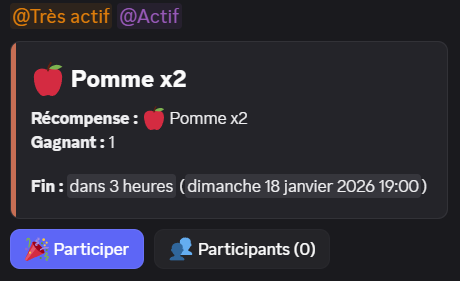
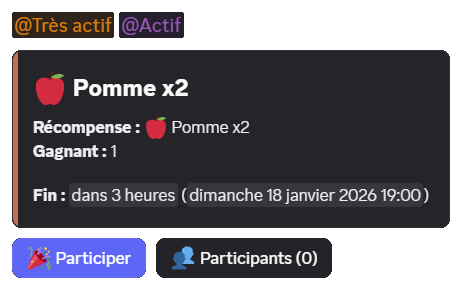
🔄 Replace image: giveaway_with_mentions.png

diff --git a/docs/2.modules/27.giveaways.md b/docs/2.modules/27.giveaways.md
@@ -235,7 +235,7 @@ Vous pouvez ajouter une vignette ainsi qu'une image principale à votre giveaway
 
 Vous pouvez définir des rôles à notifier lors de la publication du giveaway.
 
-<image giveaway avec mentions>
+![Giveaway avec deux rôles mentionnés](../assets/giveaways/giveaway_with_mentions.png)
 
 ::hint{ type="info" }
   - Vous pouvez définir jusqu'à **10** rôles mentionnés.
